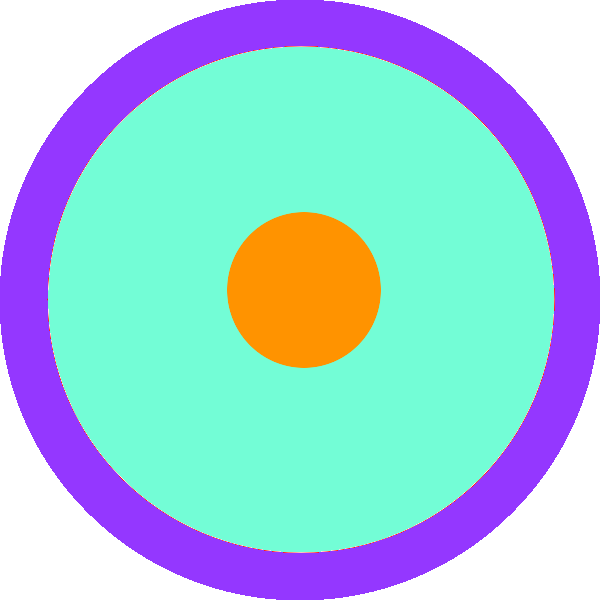
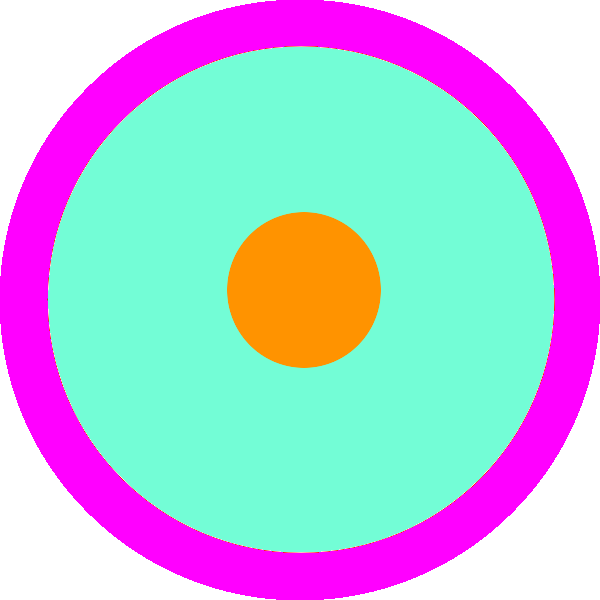
Made it all look way nicer

Changed region(s): [[0.0, 0.0, 1.0, 1.0]]

diff --git a/LocationSearchTable.swift b/LocationSearchTable.swift
@@ -8,17 +8,77 @@
 
 import Foundation
 import UIKit
+import MapKit
 
 class LocationSearchTable : UITableViewController, UISearchResultsUpdating {
-    var resultSearchController:UISearchController? = nil
     
-    override func viewDidLoad() {
-
+    var matchingItems:[MKMapItem] = []
+    
+    var mapView: MKMapView? = nil
+    
+    var handleMapSearchDelegate:HandleMapSearch? = nil
+    
+    func parseAddress(selectedItem:MKPlacemark) -> String {
+        // put a space between "4" and "Melrose Place"
+        let firstSpace = (selectedItem.subThoroughfare != nil && selectedItem.thoroughfare != nil) ? " " : ""
+        // put a comma between street and city/state
+        let comma = (selectedItem.subThoroughfare != nil || selectedItem.thoroughfare != nil) && (selectedItem.subAdministrativeArea != nil || selectedItem.administrativeArea != nil) ? ", " : ""
+        // put a space between "Washington" and "DC"
+        let secondSpace = (selectedItem.subAdministrativeArea != nil && selectedItem.administrativeArea != nil) ? " " : ""
+        let addressLine = String(
+            format:"%@%@%@%@%@%@%@",
+            // street number
+            selectedItem.subThoroughfare ?? "",
+            firstSpace,
+            // street name
+            selectedItem.thoroughfare ?? "",
+            comma,
+            // city
+            selectedItem.locality ?? "",
+            secondSpace,
+            // state
+            selectedItem.administrativeArea ?? ""
+        )
+        return addressLine
     }
 }
 
 extension LocationSearchTable {
     func updateSearchResults(for searchController: UISearchController) {
+        guard let mapView = mapView,
+            let searchBarText = searchController.searchBar.text else { return }
+        let request = MKLocalSearchRequest()
+        request.naturalLanguageQuery = searchBarText
+        request.region = mapView.region
+        let search = MKLocalSearch(request: request)
+        search.start { response, _ in
+            guard let response = response else {
+                return
+            }
+            self.matchingItems = response.mapItems
+            self.tableView.reloadData()
+        }
+    }
+}
 
+extension LocationSearchTable {
+    override func tableView(_ tableView: UITableView, numberOfRowsInSection section: Int) -> Int {
+        return matchingItems.count
+    }
+
+    override func tableView(_ tableView: UITableView, cellForRowAt indexPath: IndexPath) -> UITableViewCell {
+        let cell = tableView.dequeueReusableCell(withIdentifier: "cell")!
+        let selectedItem = matchingItems[indexPath.row].placemark
+        cell.textLabel?.text = selectedItem.name
+        cell.detailTextLabel?.text = self.parseAddress(selectedItem: selectedItem)
+        return cell
+    }
+}
+
+extension LocationSearchTable {
+    override func tableView(_ tableView: UITableView, didSelectRowAt indexPath: IndexPath) {
+        let selectedItem = matchingItems[indexPath.row].placemark
+        handleMapSearchDelegate?.zoomTo(placemark: selectedItem)
+        dismiss(animated: true, completion: nil)
     }
 }

diff --git a/Phocation/MainViewController.swift b/Phocation/MainViewController.swift
@@ -11,6 +11,10 @@ import MapKit
 import Parse
 import CoreLocation
 
+protocol HandleMapSearch {
+    func zoomTo(placemark:MKPlacemark)
+}
+
 class MainViewController: UIViewController, CLLocationManagerDelegate, UINavigationControllerDelegate {
 
     @IBOutlet weak var mapView: MKMapView!
@@ -20,6 +24,7 @@ class MainViewController: UIViewController, CLLocationManagerDelegate, UINavigat
     @IBOutlet weak var phocationsButton: UIButton!
     
     @IBOutlet weak var newPhotoButton: UIButton!
+    
     
     let locationManager = CLLocationManager()
     
@@ -32,6 +37,10 @@ class MainViewController: UIViewController, CLLocationManagerDelegate, UINavigat
     override func viewDidLoad() {
         super.viewDidLoad()
         // Do any additional setup after loading the view, typically from a nib.
+        
+        navigationController?.navigationBar.barTintColor = UIColor.orange
+        navigationController?.navigationBar.tintColor = UIColor.magenta
+        navigationController?.navigationBar.titleTextAttributes = [NSForegroundColorAttributeName:UIColor.cyan]
         
         mapView.delegate = self
         
@@ -53,6 +62,9 @@ class MainViewController: UIViewController, CLLocationManagerDelegate, UINavigat
         resultSearchController?.hidesNavigationBarDuringPresentation = false
         resultSearchController?.dimsBackgroundDuringPresentation = true
         definesPresentationContext = true
+        
+        locationSearchTable.mapView = mapView
+        locationSearchTable.handleMapSearchDelegate = self
 
         let phocations = PFQuery(className: "Post")
         phocations.findObjectsInBackground {
@@ -105,3 +117,17 @@ class MainViewController: UIViewController, CLLocationManagerDelegate, UINavigat
 
 }
 
+extension MainViewController: HandleMapSearch {
+
+    func zoomTo(placemark:MKPlacemark){
+
+        let coordinate = placemark.coordinate
+        
+        let center = CLLocationCoordinate2D(latitude: coordinate.latitude, longitude: coordinate.longitude)
+        
+        let region = MKCoordinateRegion(center: center, span: MKCoordinateSpan(latitudeDelta: 0.15, longitudeDelta: 0.15))
+        
+        self.mapView.setRegion(region, animated: true)
+    }
+    
+}

diff --git a/MyPhocationsViewController.swift b/MyPhocationsViewController.swift
@@ -17,8 +17,6 @@ class MyPhocationsViewController: UIViewController, CLLocationManagerDelegate, U
 
     @IBOutlet weak var mapView: MKMapView!
     
-    @IBOutlet weak var backButton: UIButton!
-    
     let locationManager = CLLocationManager()
     
     var posts = NSMutableArray()
@@ -36,6 +34,7 @@ class MyPhocationsViewController: UIViewController, CLLocationManagerDelegate, U
         locationManager.startUpdatingLocation()
         //mapView.showsUserLocation = true
         
+        print("\(currentUser.userName)")
         let phocations = PFQuery(className: "Post")
         phocations.whereKey("userName", equalTo: currentUser.userName! as String)
         phocations.findObjectsInBackground {
@@ -70,7 +69,7 @@ class MyPhocationsViewController: UIViewController, CLLocationManagerDelegate, U
     }
     
     func locationManager(_ manager: CLLocationManager, didUpdateLocations locations: [CLLocation]) {
-        
+
         let location = locations.last
         
         currentUser.latitude = String(format: "%f", (location?.coordinate.latitude)!)
@@ -83,6 +82,7 @@ class MyPhocationsViewController: UIViewController, CLLocationManagerDelegate, U
         self.mapView.setRegion(region, animated: true)
         
         self.locationManager.stopUpdatingLocation()
+
     }
     
     func locationManager(_ manager: CLLocationManager, didFailWithError error: Error) {

diff --git a/PhocationViewController.swift b/PhocationViewController.swift
@@ -13,8 +13,6 @@ import Bolts
 
 class PhocationViewController: UIViewController, UINavigationControllerDelegate {
     
-    @IBOutlet weak var backButton: UIButton!
-    
     @IBOutlet weak var imageViewer: UIImageView!
     
     @IBOutlet weak var likeButton: UIButton!
@@ -24,6 +22,10 @@ class PhocationViewController: UIViewController, UINavigationControllerDelegate 
     @IBOutlet weak var userName: UILabel!
     
     @IBOutlet weak var numLikes: UILabel!
+    
+    var likeImage = UIImage(named: "phocationHeart.png")
+    
+    var unlikeImage = UIImage(named: "phocationBrokenHeart.png")
     
     var id:String?
     
@@ -42,6 +44,9 @@ class PhocationViewController: UIViewController, UINavigationControllerDelegate 
     }
     
     override func viewDidLoad() {
+        self.navigationItem.title = "PHOCATION"
+        self.likeButton.setImage(likeImage, for: UIControlState.normal )
+        self.unlikeButton.setImage(unlikeImage, for: UIControlState.normal)
         self.likeButton.isEnabled = false
         self.unlikeButton.isEnabled = false
         self.isLiked()

diff --git a/MyPhocationViewer.swift b/MyPhocationViewer.swift
@@ -32,7 +32,7 @@ extension MyPhocationsViewController: MKMapViewDelegate {
             view.isEnabled = true
             
             // Resize image
-            let pinImage = UIImage(named: "redCircle.png")
+            let pinImage = UIImage(named: "annotationCircle.png")
             let size = CGSize(width: 25, height: 25)
             UIGraphicsBeginImageContext(size)
             pinImage!.draw(in: CGRect(x: 0, y: 0, width: size.width, height: size.height))
@@ -54,7 +54,7 @@ extension MyPhocationsViewController: MKMapViewDelegate {
     override func prepare(for segue: UIStoryboardSegue, sender: Any?) {
         if (segue.identifier == "phocationSegue"){
             let phocationViewController = (segue.destination as! PhocationViewController)
-            phocationViewController.id = (sender as! MKAnnotationView).annotation!.title!
+            phocationViewController.id = (sender as! MKAnnotationView).annotation!.subtitle!
         }
     }
 }

diff --git a/Phocation/CameraViewController.swift b/Phocation/CameraViewController.swift
@@ -14,8 +14,6 @@ class CameraViewController: UIViewController, UIImagePickerControllerDelegate, U
     
     @IBOutlet weak var imageViewer: UIImageView!
     
-    @IBOutlet weak var backButton: UIButton!
-    
     @IBOutlet weak var takeButton: UIButton!
     
     @IBOutlet weak var chooseButton: UIButton!
@@ -30,7 +28,7 @@ class CameraViewController: UIViewController, UIImagePickerControllerDelegate, U
     
     override func viewDidLoad() {
         super.viewDidLoad()
-        
+        self.navigationItem.title = "NEW PHOCATION"
         imagePicker.delegate = self
         postButton.isEnabled = false
     }

diff --git a/LogInViewController.swift b/LogInViewController.swift
@@ -13,8 +13,6 @@ import Bolts
 
 class LogInViewController: UIViewController, UITextFieldDelegate {
     
-    @IBOutlet weak var backButton: UIButton!
-    
     @IBOutlet weak var usernameField: UITextField!
     
     @IBOutlet weak var passwordField: UITextField!
@@ -90,7 +88,7 @@ class LogInViewController: UIViewController, UITextFieldDelegate {
         self.passwordField.delegate = self
         self.usernameField.text = currentUser.userName
         self.passwordField.text = currentUser.password
-        
+        self.navigationItem.title = "LOG IN"
     }
     
     override func didReceiveMemoryWarning() {

diff --git a/SignUpViewController.swift b/SignUpViewController.swift
@@ -12,8 +12,6 @@ import Parse
 import Bolts
 
 class SignUpViewController: UIViewController, UITextFieldDelegate {
-
-    @IBOutlet weak var backButton: UIButton!
     
     @IBOutlet weak var usernameField: UITextField!
     
@@ -78,7 +76,7 @@ class SignUpViewController: UIViewController, UITextFieldDelegate {
     override func viewDidLoad() {
         self.usernameField.delegate = self
         self.passwordField.delegate = self
-    }
+        self.navigationItem.title = "SIGN UP"    }
     
     override func didReceiveMemoryWarning() {
         super.didReceiveMemoryWarning()

diff --git a/Phocation/SettingsViewController.swift b/Phocation/SettingsViewController.swift
@@ -26,14 +26,13 @@ class SettingsViewController: UIViewController, UITextFieldDelegate {
     
     @IBOutlet weak var twoFourHours: UILabel!
     
-    @IBOutlet weak var settingsLabel: UILabel!
-    
     @IBOutlet weak var logInButton: UIButton!
     
     @IBOutlet weak var signUpButton: UIButton!
     
     override func viewDidLoad() {
         super.viewDidLoad()
+        self.navigationItem.title = "SETTINGS"
         // Do any additional setup after loading the view.
         currUser.text = "Username: " + currentUser.userName!
     }

diff --git a/PhocationViewer.swift b/PhocationViewer.swift
@@ -54,7 +54,7 @@ extension MainViewController: MKMapViewDelegate {
     override func prepare(for segue: UIStoryboardSegue, sender: Any?) {
         if (segue.identifier == "phocationSegue"){        
             let phocationViewController = (segue.destination as! PhocationViewController)
-            phocationViewController.id = (sender as! MKAnnotationView).annotation!.title!
+            phocationViewController.id = (sender as! MKAnnotationView).annotation!.subtitle!
         }
     }
 }

diff --git a/Phocation.swift b/Phocation.swift
@@ -15,7 +15,8 @@ class Phocation: MKPointAnnotation {
     
     init(id: String, user: String, coordinate: CLLocationCoordinate2D) {
         super.init()
-        self.title = id
+        self.title = user
+        self.subtitle = id
         self.id = id
         self.user = user
         self.coordinate = coordinate
